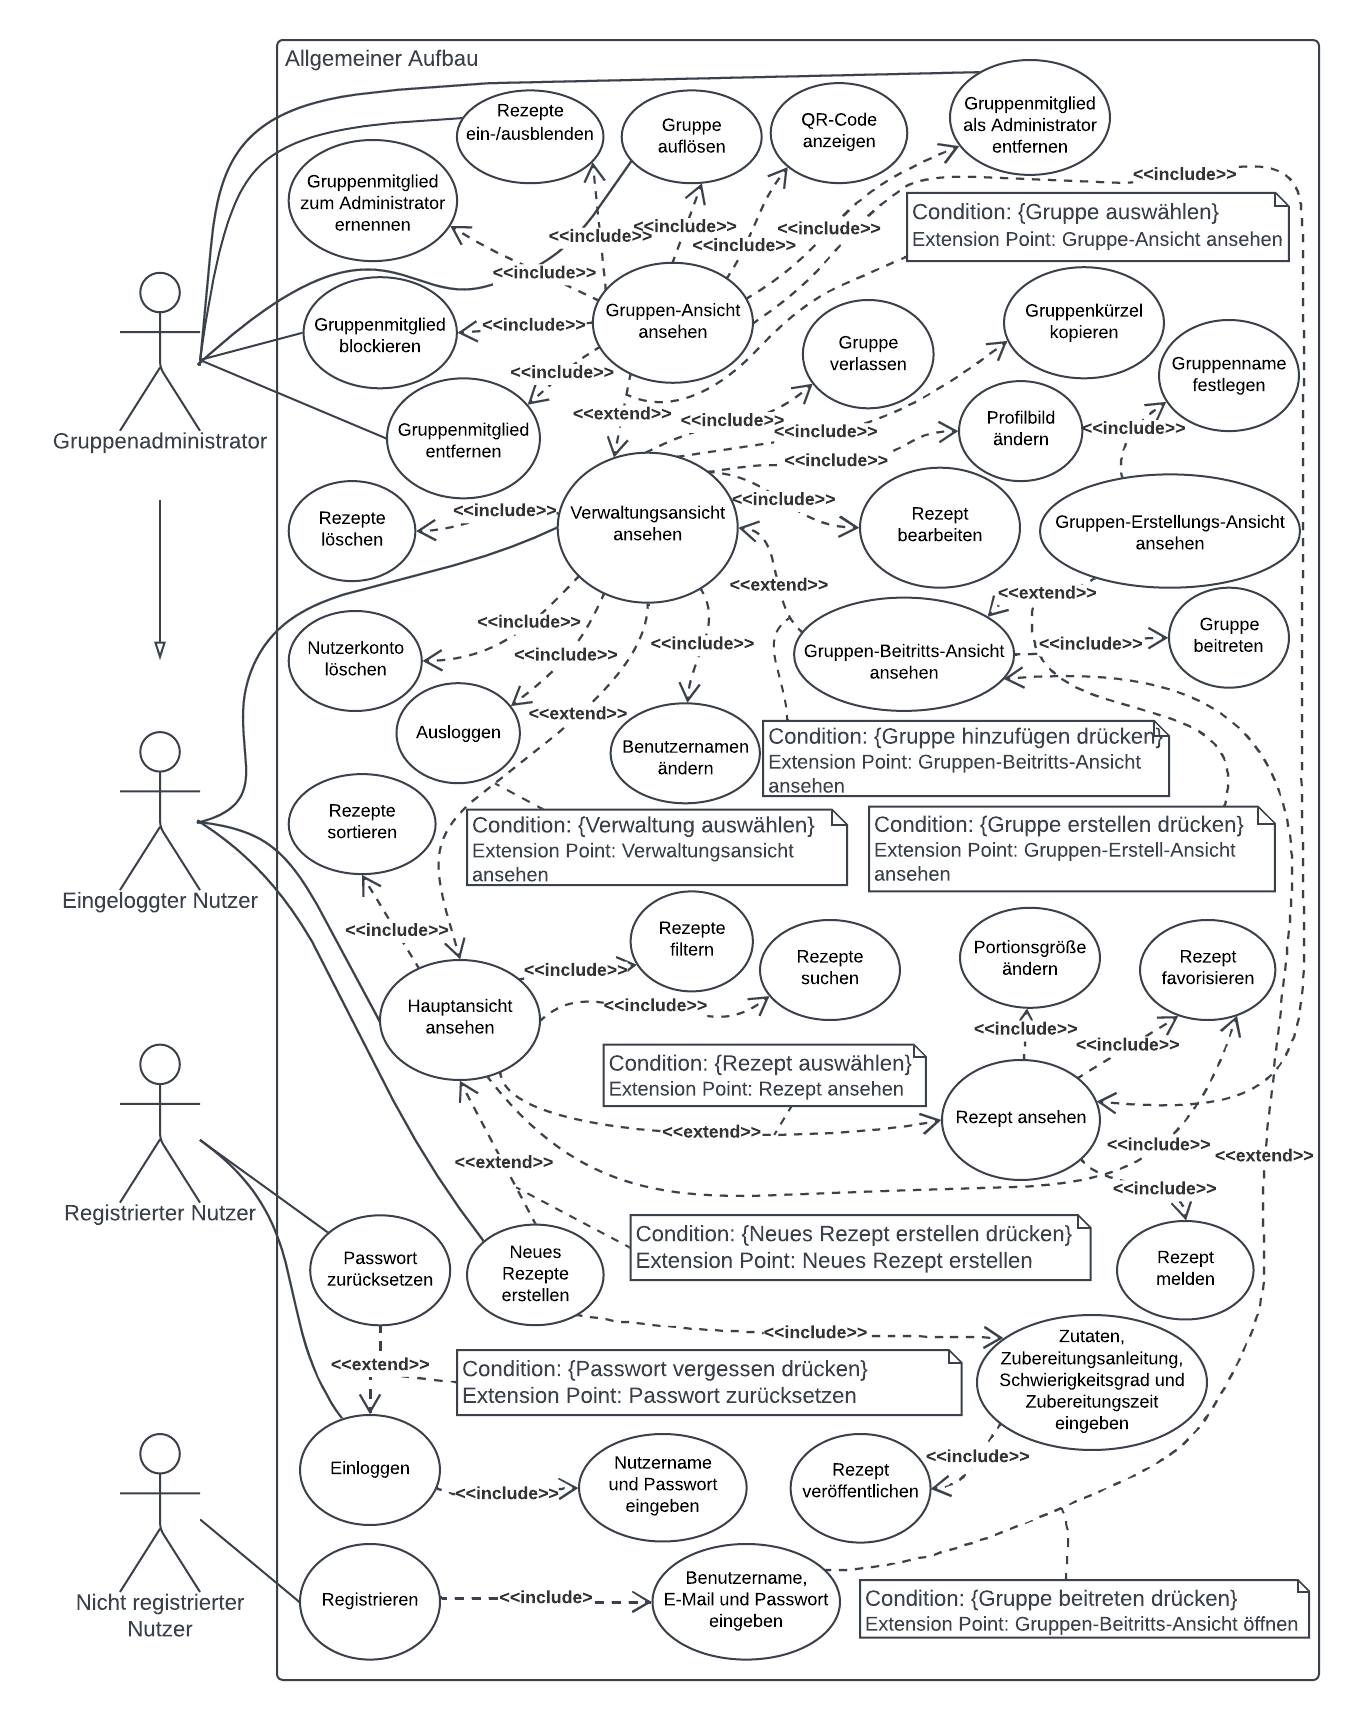
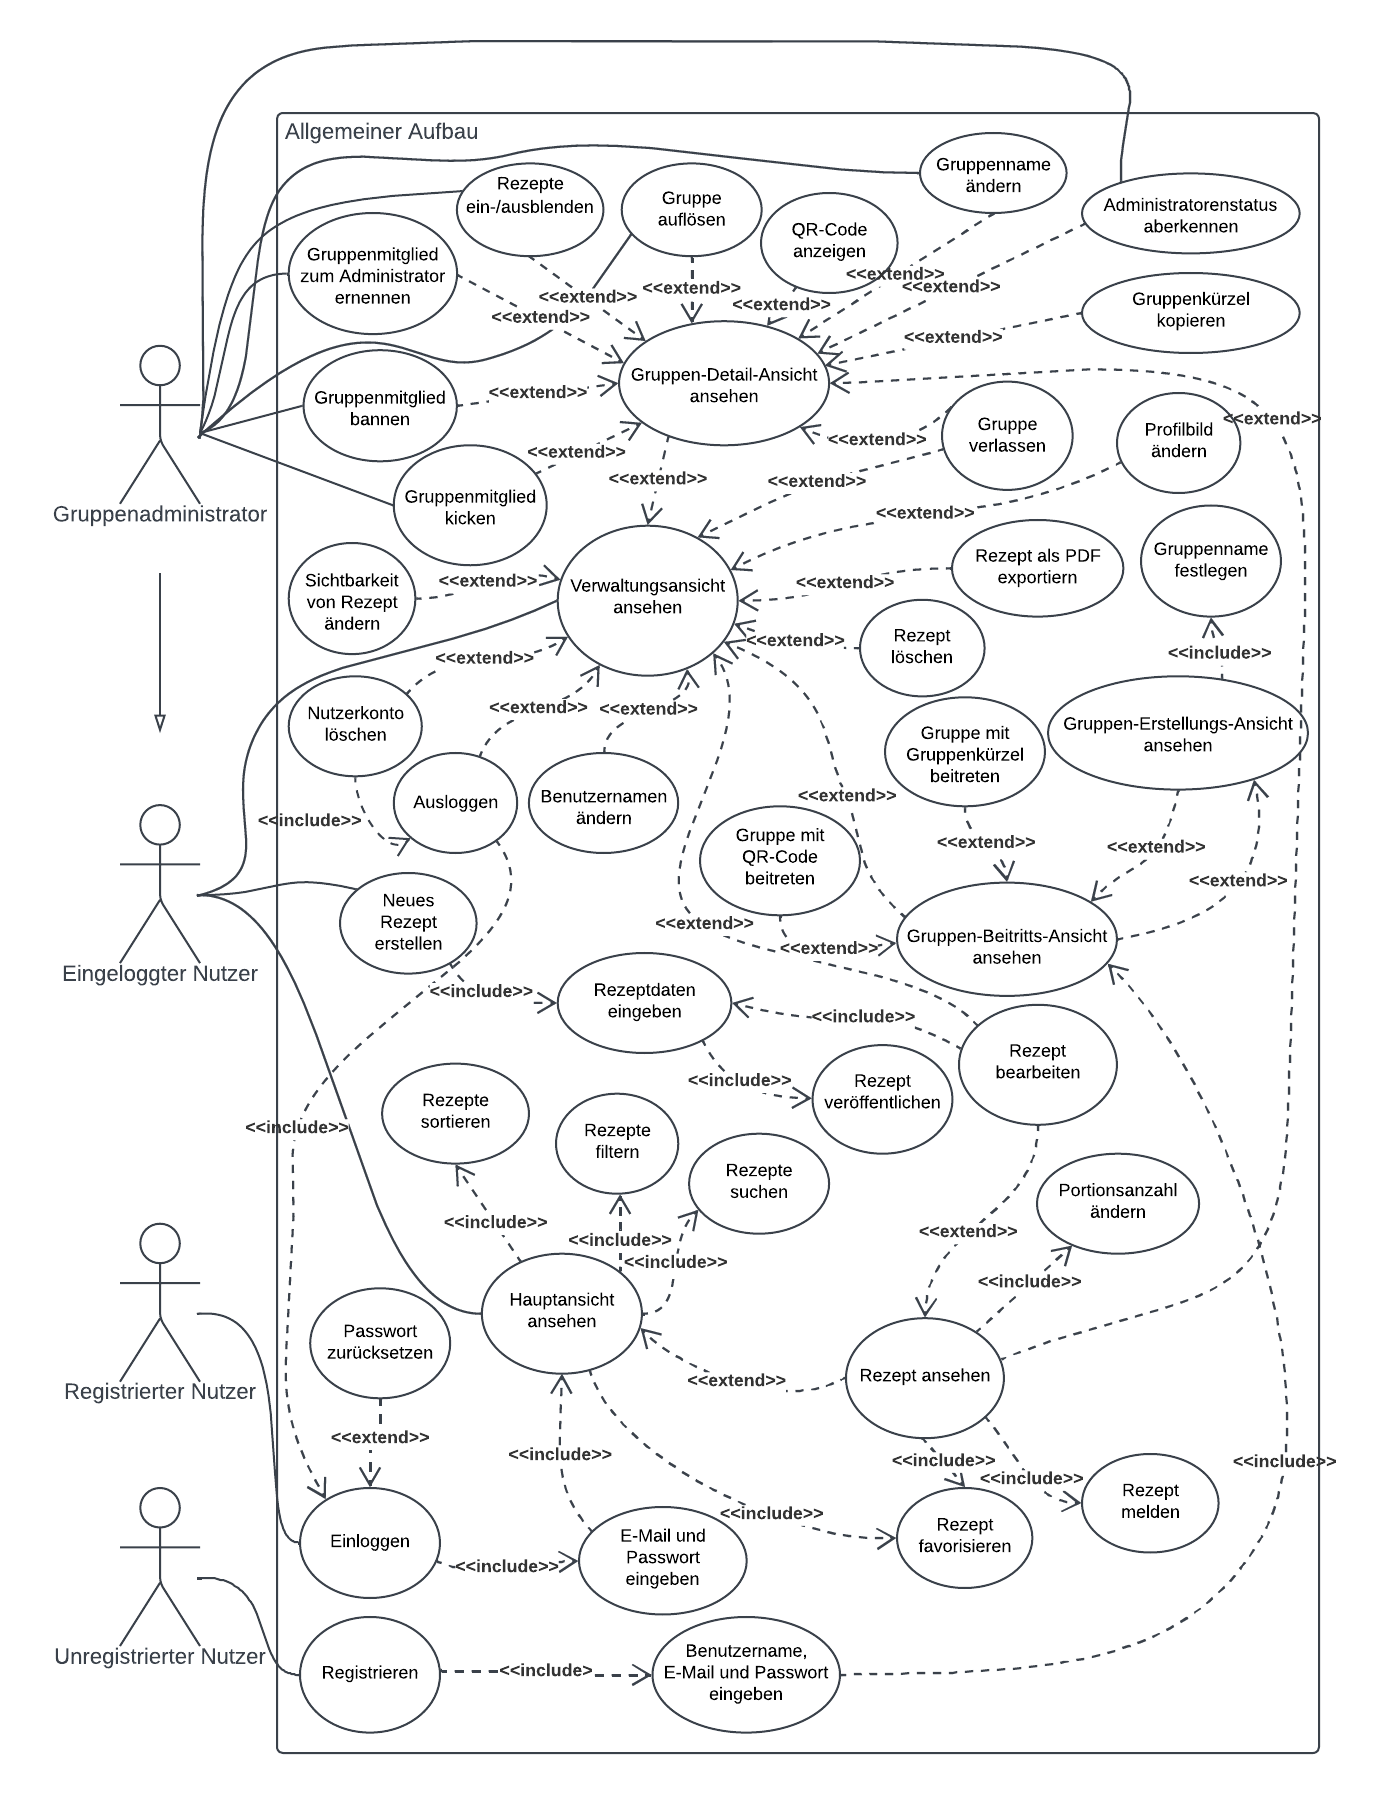
Fix diagrams

Changed region(s): [[0.0309, 0.0, 0.9882, 0.986], [0.0926, 0.6163, 0.1235, 0.6471], [0.0926, 0.3698, 0.1235, 0.4006]]

diff --git a/pflichtenheft/pflichtenheft.tex b/pflichtenheft/pflichtenheft.tex
@@ -130,7 +130,7 @@ Sollkriterien: Leistungen, die enthalten sein sollten, bei Bedarf jedoch auch we
     \item Das Hinzufügedatum und der Benutzername des \glslink{autor}{Autors} eines \glslink{rezept}{Rezeptes} soll einsehbar sein.\label{rs:AuthorAndDate}
     \item Der Nutzer soll sein Passwort wieder zurücksetzen können, indem er einen Link an seine E-Mail-Adresse geschickt bekommt.\label{rs:ResetPassword}
     \item Der Nutzer soll sein Konto nach Erstellen wieder löschen können.\label{rs:AccountDeletion}
-    \item Der Nutzer soll das \gls{gruppenkurzel} auch über einen QR-Code teilen können.\label{rs:QRCode}
+    \item Der Nutzer soll das \gls{gruppenkurzel} auch über einen QR-Code teilen können, der zum Gruppenbeitritt gescannt werden kann.\label{rs:QRCode}
     \item Der Nutzer soll seinen Nutzernamen ändern können.\label{rs:ChangeUsername}
     \item Der Nutzer soll nach \glslink{rezept}{Rezepten} anhand ihres Titels suchen können.\label{rs:Searching}
     \item Die Gruppe soll aus der Datenbank gelöscht werden, wenn das letzte Mitglied der Gruppe diese verlassen hat.\label{rs:EmptyGroup}
@@ -234,7 +234,7 @@ Durch das Drücken des Gruppen-Hinzufügen-Buttons kann der Nutzer eine neue Gru
 Von der Verwaltungsansicht kommt der Nutzer durch Klicken auf eine Gruppe auf die Gruppen-Detail-Ansicht.
 Eingeloggte Nutzer können hier Gruppenmitglieder und \glslink{rezept}{Rezepte} von Gruppenmitgliedern einsehen, die Gruppe verlassen oder den QR-Code zum Beitreten der Gruppe einsehen.
 Durch das Klicken auf die \glslink{rezept}{Rezepte} gelangt der Nutzer auf die Rezeptansicht des dazugehörigen Rezepts.
-\glslink{administrator}{Gruppenadministratoren} können in der Verwaltungsansicht Gruppenmitglieder \gls{kicken}, \gls{bannen}, zum \gls{administrator} ernennen, \glslink{administrator}{Administratoren} zu normalen Nutzern degradieren, \glslink{rezept}{Rezepte} von Gruppenmitgliedern für die Gruppe \gls{ausblenden} oder die Gruppe auflösen.\par
+\glslink{administrator}{Gruppenadministratoren} können in der Gruppen-Detail-Ansicht Gruppenmitglieder \gls{kicken}, \gls{bannen}, zum \gls{administrator} ernennen, \glslink{administrator}{Administratoren} zu normalen Nutzern degradieren, \glslink{rezept}{Rezepte} von Gruppenmitgliedern für die Gruppe \gls{ausblenden} oder die Gruppe auflösen.\par
 
 Im Falle eines Verbindungsverlustes zum Server können bereits geladene \glslink{rezept}{Rezepte} weiterhin angezeigt werden. Wird die App ohne Verbindung zum Server gestartet, wird eine Fehlermeldung angezeigt.
 
